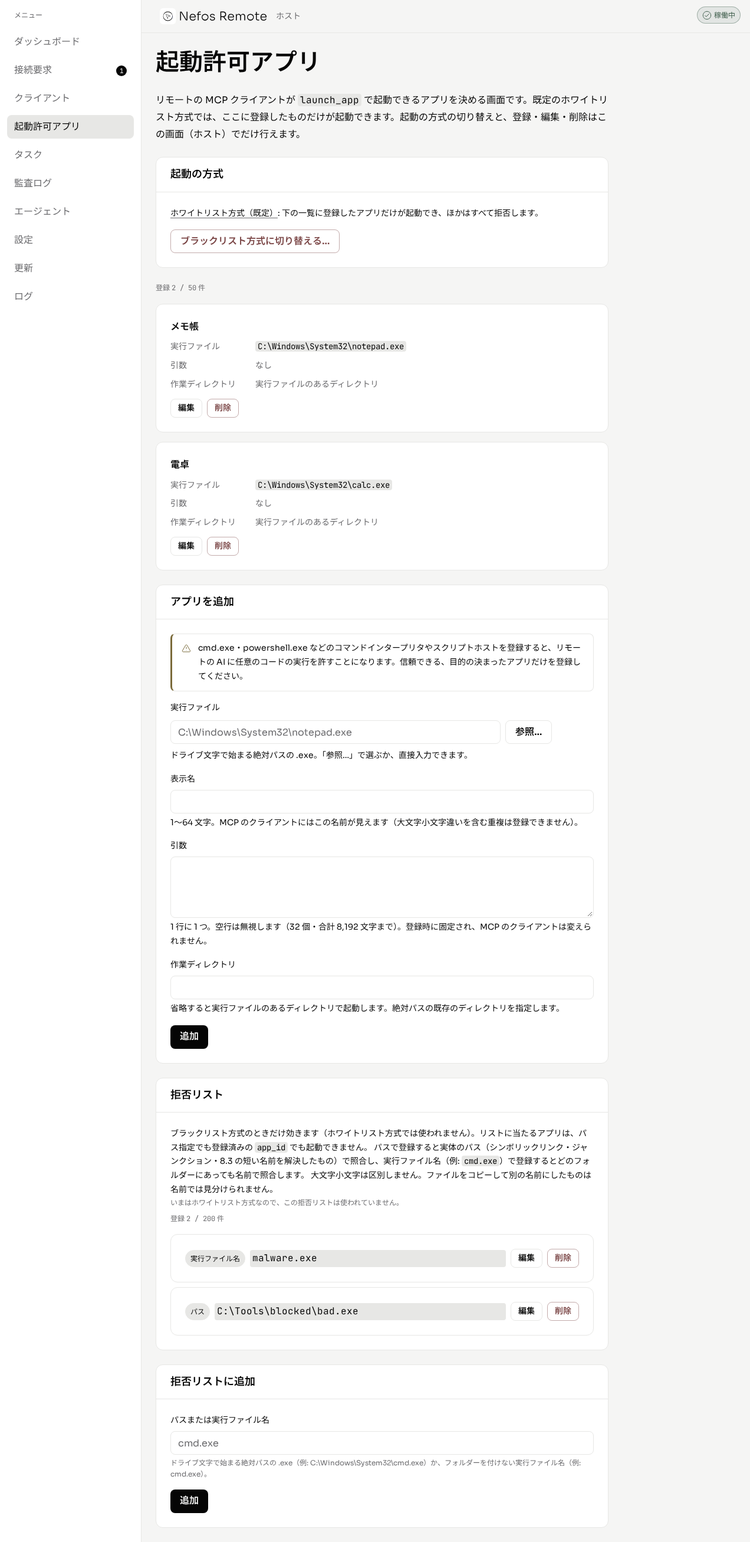
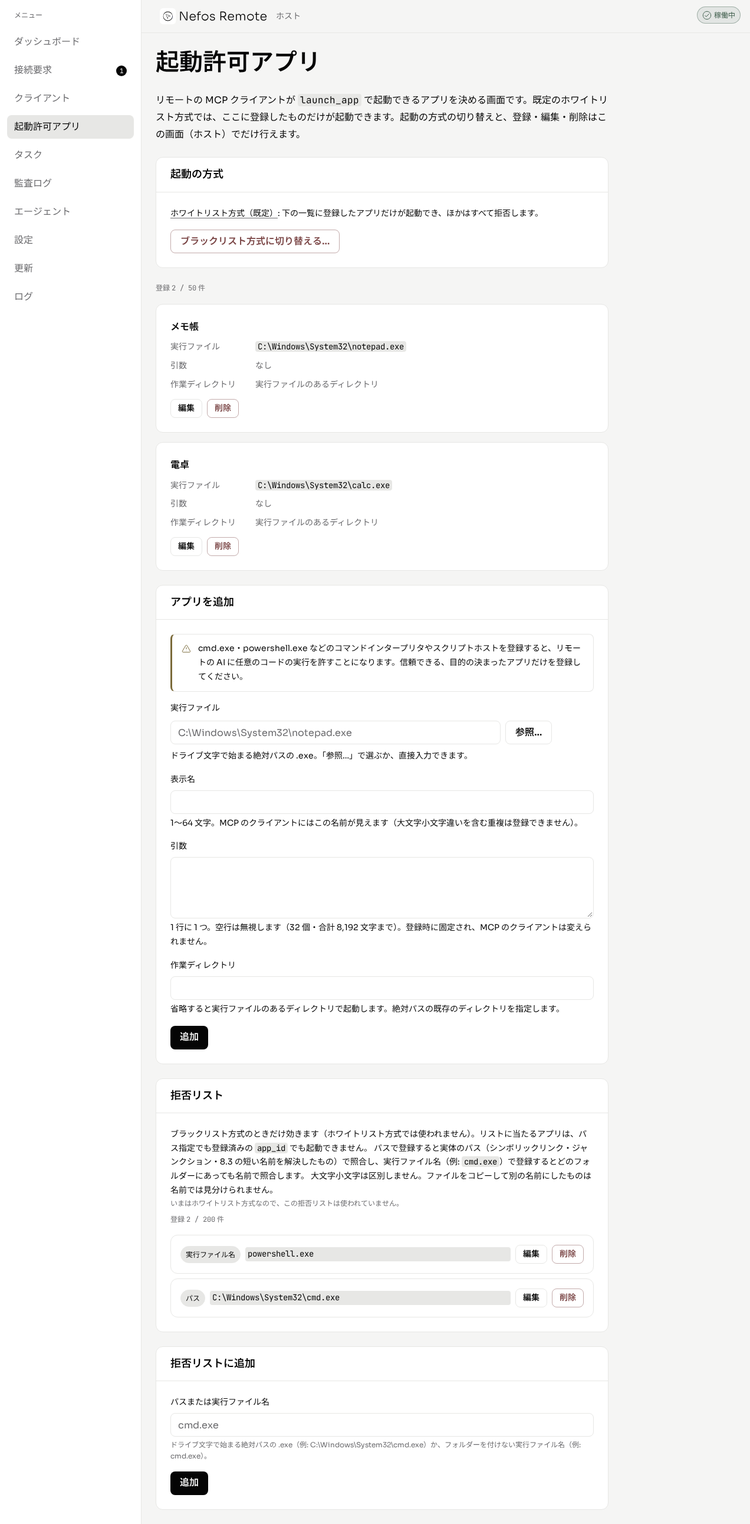
fix: 拒否リストの行を入れ子用の余白にし、Tooltip の左右余白を非対応ブラウザの外へ出さず、スクショ 6 枚を撮り直す (#181 #184 #178)

diff --git a/static/src/css/app.css b/static/src/css/app.css
@@ -711,6 +711,7 @@
       position-area: top;
       justify-self: anchor-center;
       margin-block: var(--s-2);
+      margin-inline: var(--s-4);
       position-try-fallbacks: flip-block;
     }
   }

diff --git a/internal/web/organisms/app_launch_mode_templ.go b/internal/web/organisms/app_launch_mode_templ.go
@@ -333,14 +333,14 @@ func DeniedSection(v view.DeniedSection) templ.Component {
 			}
 			for _, row := range v.Rows {
 				if row.Editing {
-					templ_7745c5c3_Err = templruntime.WriteString(templ_7745c5c3_Buffer, 23, "<li class=\"rounded-lg border border-border bg-surface p-(--pad-card)\" data-denied=\"")
+					templ_7745c5c3_Err = templruntime.WriteString(templ_7745c5c3_Buffer, 23, "<li class=\"rounded-lg border border-border bg-surface p-(--pad-card-sm)\" data-denied=\"")
 					if templ_7745c5c3_Err != nil {
 						return templ_7745c5c3_Err
 					}
 					var templ_7745c5c3_Var12 string
 					templ_7745c5c3_Var12, templ_7745c5c3_Err = templ.JoinStringErrs(row.ID)
 					if templ_7745c5c3_Err != nil {
-						return templ.Error{Err: templ_7745c5c3_Err, FileName: `internal/web/organisms/app_launch_mode.templ`, Line: 105, Col: 97}
+						return templ.Error{Err: templ_7745c5c3_Err, FileName: `internal/web/organisms/app_launch_mode.templ`, Line: 105, Col: 100}
 					}
 					_, templ_7745c5c3_Err = templ_7745c5c3_Buffer.WriteString(templ.EscapeString(templ_7745c5c3_Var12))
 					if templ_7745c5c3_Err != nil {
@@ -359,20 +359,20 @@ func DeniedSection(v view.DeniedSection) templ.Component {
 						return templ_7745c5c3_Err
 					}
 				} else {
-					templ_7745c5c3_Err = templruntime.WriteString(templ_7745c5c3_Buffer, 26, "<li class=\"flex flex-wrap items-center gap-2 rounded-lg border border-border bg-surface p-(--pad-card)\" data-denied=\"")
+					templ_7745c5c3_Err = templruntime.WriteString(templ_7745c5c3_Buffer, 26, "<li class=\"flex flex-col gap-2 rounded-lg border border-border bg-surface p-(--pad-card-sm) sm:flex-row sm:items-center\" data-denied=\"")
 					if templ_7745c5c3_Err != nil {
 						return templ_7745c5c3_Err
 					}
 					var templ_7745c5c3_Var13 string
 					templ_7745c5c3_Var13, templ_7745c5c3_Err = templ.JoinStringErrs(row.ID)
 					if templ_7745c5c3_Err != nil {
-						return templ.Error{Err: templ_7745c5c3_Err, FileName: `internal/web/organisms/app_launch_mode.templ`, Line: 109, Col: 131}
+						return templ.Error{Err: templ_7745c5c3_Err, FileName: `internal/web/organisms/app_launch_mode.templ`, Line: 109, Col: 148}
 					}
 					_, templ_7745c5c3_Err = templ_7745c5c3_Buffer.WriteString(templ.EscapeString(templ_7745c5c3_Var13))
 					if templ_7745c5c3_Err != nil {
 						return templ_7745c5c3_Err
 					}
-					templ_7745c5c3_Err = templruntime.WriteString(templ_7745c5c3_Buffer, 27, "\"><span data-denied-kind>")
+					templ_7745c5c3_Err = templruntime.WriteString(templ_7745c5c3_Buffer, 27, "\"><div class=\"flex min-w-0 flex-1 items-center gap-2 text-sm\"><span class=\"shrink-0\" data-denied-kind>")
 					if templ_7745c5c3_Err != nil {
 						return templ_7745c5c3_Err
 					}
@@ -387,20 +387,20 @@ func DeniedSection(v view.DeniedSection) templ.Component {
 							return templ_7745c5c3_Err
 						}
 					}
-					templ_7745c5c3_Err = templruntime.WriteString(templ_7745c5c3_Buffer, 28, "</span> <code class=\"min-w-0 flex-1 basis-40 break-all\" data-denied-value>")
+					templ_7745c5c3_Err = templruntime.WriteString(templ_7745c5c3_Buffer, 28, "</span> <code class=\"min-w-0 flex-1 break-all\" data-denied-value>")
 					if templ_7745c5c3_Err != nil {
 						return templ_7745c5c3_Err
 					}
 					var templ_7745c5c3_Var14 string
 					templ_7745c5c3_Var14, templ_7745c5c3_Err = templ.JoinStringErrs(row.Value)
 					if templ_7745c5c3_Err != nil {
-						return templ.Error{Err: templ_7745c5c3_Err, FileName: `internal/web/organisms/app_launch_mode.templ`, Line: 117, Col: 85}
+						return templ.Error{Err: templ_7745c5c3_Err, FileName: `internal/web/organisms/app_launch_mode.templ`, Line: 118, Col: 77}
 					}
 					_, templ_7745c5c3_Err = templ_7745c5c3_Buffer.WriteString(templ.EscapeString(templ_7745c5c3_Var14))
 					if templ_7745c5c3_Err != nil {
 						return templ_7745c5c3_Err
 					}
-					templ_7745c5c3_Err = templruntime.WriteString(templ_7745c5c3_Buffer, 29, "</code>")
+					templ_7745c5c3_Err = templruntime.WriteString(templ_7745c5c3_Buffer, 29, "</code></div><div class=\"flex shrink-0 gap-2\" data-denied-actions>")
 					if templ_7745c5c3_Err != nil {
 						return templ_7745c5c3_Err
 					}
@@ -416,7 +416,7 @@ func DeniedSection(v view.DeniedSection) templ.Component {
 					if templ_7745c5c3_Err != nil {
 						return templ_7745c5c3_Err
 					}
-					templ_7745c5c3_Err = templruntime.WriteString(templ_7745c5c3_Buffer, 30, "</li>")
+					templ_7745c5c3_Err = templruntime.WriteString(templ_7745c5c3_Buffer, 30, "</div></li>")
 					if templ_7745c5c3_Err != nil {
 						return templ_7745c5c3_Err
 					}
@@ -518,7 +518,7 @@ func deniedEditForm(row view.DeniedRow, cancelURL string) templ.Component {
 		var templ_7745c5c3_Var17 string
 		templ_7745c5c3_Var17, templ_7745c5c3_Err = templ.JoinStringErrs("denied-form-" + row.ID)
 		if templ_7745c5c3_Err != nil {
-			return templ.Error{Err: templ_7745c5c3_Err, FileName: `internal/web/organisms/app_launch_mode.templ`, Line: 150, Col: 30}
+			return templ.Error{Err: templ_7745c5c3_Err, FileName: `internal/web/organisms/app_launch_mode.templ`, Line: 154, Col: 30}
 		}
 		_, templ_7745c5c3_Err = templ_7745c5c3_Buffer.WriteString(templ.EscapeString(templ_7745c5c3_Var17))
 		if templ_7745c5c3_Err != nil {

diff --git a/internal/web/organisms/organisms_test.go b/internal/web/organisms/organisms_test.go
@@ -799,24 +799,38 @@ func TestPagerButtonsAreSmallSecondary(t *testing.T) {
 	has(t, tasks, "h-8", "data-pager-next")
 }
 
-// #184: 項目カード（クライアント・アプリ・接続要求・拒否リストの行・詳細の枠）の内側の余白は、ガイドの設定画面パーツ 1 の本文と同じ --pad-card（24）。
-// p-4 などの直書きの数値を残さない。
+// #184: 項目カード（クライアント・アプリ・接続要求・詳細の枠）の内側の余白は、ガイドの設定画面パーツ 1 の本文と同じ --pad-card（24）。
+// 拒否リストの行は見出し付きカードの中に入れ子になった行なので、--pad-card-sm（16）。p-4 などの直書きの数値を残さない。
 func TestItemCardsUseThePadCardToken(t *testing.T) {
 	const card = "rounded-lg border border-border bg-surface p-(--pad-card)"
+	const nested = "rounded-lg border border-border bg-surface p-(--pad-card-sm)"
 	clients := webtest.Render(t, organisms.ClientCard(view.Client{ID: "c1"}))
 	has(t, clients, card)
 	apps := webtest.Render(t, organisms.AppCard(view.AppRow{ID: "a1", Label: "x"}))
 	has(t, apps, card)
 	denied := webtest.Render(t, organisms.DeniedSection(view.DeniedSection{Rows: []view.DeniedRow{{ID: "d1"}, {ID: "d2", Editing: true, ActionURL: "/apps/denied/d2"}}}))
-	if n := strings.Count(denied, card); n != 2 {
-		t.Errorf("denied rows (view and edit) must both use the token, got %d:\n%s", n, denied)
+	if n := strings.Count(denied, nested); n != 2 {
+		t.Errorf("denied rows (view and edit) must both use the nested-row token, got %d:\n%s", n, denied)
 	}
-	// 390 幅で値が 1 文字ずつ縦に折れない（flex-1 の最小幅が 0 なので、折り返しの基準 basis-40 を持つ）。
-	has(t, denied, `<code class="min-w-0 flex-1 basis-40 break-all" data-denied-value>`)
+	hasNot(t, denied, card)
+	// 390 幅で値が 1 文字ずつ縦に折れない（flex-1 の最小幅が 0。1 段目の行の中でバッジの残りの幅に収まって折り返す）。値は AppCard と同じ 14px（<code> は親の text-sm に従う）。
+	has(t, denied, `<div class="flex min-w-0 flex-1 items-center gap-2 text-sm">`, `<code class="min-w-0 flex-1 break-all" data-denied-value>`)
 	request := webtest.Render(t, organisms.ConnectionRequestList(view.RequestList{Rows: []view.RequestRow{{ID: "r1", RemoteIP: "100.64.0.9"}}}))
 	has(t, request, card)
 	for _, out := range []string{clients, apps, denied, request} {
 		hasNot(t, out, "bg-surface p-4")
+	}
+}
+
+// #184: 拒否リストの行は sm 未満で「1 段目: バッジ＋値、2 段目: ボタン」の 2 段、sm 以上で 1 行。
+// 「編集」「削除」は 1 つの flex（gap-2 shrink-0）に包み、折り返しで分かれない。
+func TestDeniedRowKeepsActionsTogether(t *testing.T) {
+	denied := webtest.Render(t, organisms.DeniedSection(view.DeniedSection{Rows: []view.DeniedRow{{ID: "d1", Value: "cmd.exe", EditURL: "/apps/denied/d1/edit", DeleteConfirm: "/apps/denied/d1/delete"}}}))
+	has(t, denied, "flex flex-col gap-2", "sm:flex-row", `<div class="flex shrink-0 gap-2" data-denied-actions>`)
+	actions := denied[strings.Index(denied, "data-denied-actions"):]
+	actions = actions[:strings.Index(actions, "</li>")]
+	if n := strings.Count(actions, "<button"); n != 2 {
+		t.Errorf("the edit and delete buttons must share one wrapper, got %d buttons in it:\n%s", n, actions)
 	}
 }
 

diff --git a/internal/web/card_padding_test.go b/internal/web/card_padding_test.go
@@ -10,8 +10,8 @@ import (
 )
 
 // #184: 枠付きのカード（`rounded-lg border border-border bg-surface` の枠）の内側の余白は、直書きの数値（`p-4` など）でなく、ガイドのトークンで書く。
-// 項目カード（クライアント・アプリ・接続要求・拒否リストの行・詳細の枠）は設定画面のパーツ 1 の本文と同じ `p-(--pad-card)`（24）、
-// 絞り込み・ツールバーのような小さい枠は `p-(--pad-card-sm)`（16）。docs/architecture/frontend.md §8.4 の「項目カードの余白」。
+// 項目カード（クライアント・アプリ・接続要求・詳細の枠）は設定画面のパーツ 1 の本文と同じ `p-(--pad-card)`（24）、
+// 絞り込み・ツールバーのような小さい枠と、見出し付きカードの中に入れ子になった拒否リストの行（表示・編集とも）は `p-(--pad-card-sm)`（16）。docs/architecture/frontend.md §8.4 の「項目カードの余白」。
 func TestBorderedSurfaceFramesUsePadCardTokens(t *testing.T) {
 	rawPadding := regexp.MustCompile(`rounded-lg border border-border bg-surface[^"]*\bp-[0-9]`)
 	found := 0
@@ -26,6 +26,9 @@ func TestBorderedSurfaceFramesUsePadCardTokens(t *testing.T) {
 		for i, line := range strings.Split(string(src), "\n") {
 			if strings.Contains(line, "rounded-lg border border-border bg-surface p-(--pad-card") {
 				found++
+			}
+			if strings.Contains(line, "data-denied={ row.ID }") && !strings.Contains(line, "p-(--pad-card-sm)") {
+				t.Errorf("%s:%d: a denied-list row is nested in a Card, so it uses p-(--pad-card-sm): %s", path, i+1, strings.TrimSpace(line))
 			}
 			if rawPadding.MatchString(line) {
 				t.Errorf("%s:%d: use p-(--pad-card) / p-(--pad-card-sm) instead of a literal padding: %s", path, i+1, strings.TrimSpace(line))

diff --git a/internal/web/tokens_css_test.go b/internal/web/tokens_css_test.go
@@ -367,7 +367,7 @@ func TestTooltipShowsOnHoverAndFocusVisible(t *testing.T) {
 }
 
 // #180・#181: ツールチップは WCAG 1.4.13 を満たす。Esc（app.ts が付ける data-tip-dismissed）で隠れ、本文は pointer-events を切らず（hoverable）、
-// 出す側との隙間は ::before / ::after の橋でふさぐ。位置は出す側の真上で、入りきらなければ真下（アンカー位置指定。横にはずらさない）。
+// 出す側との隙間は ::before / ::after の橋でふさぐ。位置は出す側の真上で、入りきらなければ真下（アンカー位置指定。横にはずらさない）。左右には margin-inline で画面の端から余白を空ける。
 func TestTooltipIsDismissableHoverableAndAnchoredAboveOrBelow(t *testing.T) {
 	css := strings.Join(strings.Fields(readAppCSS(t)), " ")
 	if regexp.MustCompile(`\.tip \{[^}]*pointer-events: none;`).MatchString(css) {
@@ -380,6 +380,8 @@ func TestTooltipIsDismissableHoverableAndAnchoredAboveOrBelow(t *testing.T) {
 		"position-area: top;",
 		"position-try-fallbacks: flip-block;",
 		"justify-self: anchor-center;",
+		// #181: 390 幅で画面の左右の端にぴったり付かない余白（最低でも --s-2）。
+		"margin-inline: var(--s-4);",
 		"anchor-scope: --tip;",
 	} {
 		if !strings.Contains(css, want) {

diff --git a/docs/architecture/frontend.md b/docs/architecture/frontend.md
@@ -572,7 +572,7 @@ graph LR
 #### 見出し付きカード・見出しの段・アラート・見出し構造（#148・#150・#154・#155）
 
 - **見出し付きカード（`molecules.Card`。ガイド「設定画面のパーツ」1）**: 地 `--surface`・枠 `--border` 1px・角丸 `--r-lg`・影なし。題は `<h2>` で、見た目はタグの既定サイズに頼らずクラスで決める（`text-lg font-semibold leading-[1.4]` = lg 18・SemiBold・行間 1.4）。題の padding は縦 `--s-4`（`py-4`）・横 `--s-6`（`px-6`）で、題の下に `--border` 1px の線（`border-b`）。本文は padding `--s-6`（`p-6`）。題が空なら題と線は出さない（設定ページ）。ダッシュボード・更新パネル・キルスイッチ・起動許可アプリ（起動の方式・拒否リスト・拒否リストに追加・アプリの追加／編集フォーム）・監査ログとタスクの詳細（引数・サムネイル・指示・最終回答・ステップ）・ビューアの操作権・操作するウィンドウ（`WindowPicker`。更新ボタンは本文の先頭）など、題付きの枠はすべてこの部品で出し、枠の直書きや `text-2xl`・`text-xl` の見出しは置かない（#166。`internal/web/spacing_scale_test.go` の `TestNoHardcodedLargeHeadingsInTemplates` が、見出しに `text-2xl`・`text-xl` が残らないことを、`TestVisibleH2OnlyInMolecules` が、見える h2 は `molecules` だけが出す（organisms・pages に直書きの題を置かない。`sr-only` の h2 は除く）ことを検出する）。htmx が題ごとパネルを差し替える `#update-panel`・`#killswitch-panel`・`#launch-mode`・`#denied-section`・`#lease-panel`・`#window-picker` は、Card を包む `<div id>` に持たせる（差し替えの対象は題を含む）。`AppForm`・拒否リストの追加フォームは、htmx の送信・差し替えの単位が `<form>` なので、`<form>` の中に Card を置く。詳細ページの Card 同士の間隔は `space-y-6`（`--gap-card-section`）。入れ子の本文（指示・最終回答の `<pre>`）は `--bone` 地・`rounded-md`（枠線なし）。
-- **項目カードの余白（#184。ガイド「設定画面のパーツ」1）**: 項目カード（`ClientCard`・`AppCard`・接続要求の項目・拒否リストの行〔表示・編集とも〕）と、同じ作りの詳細の枠（監査ログの詳細の `<dl>`・タスクの詳細の状態の枠）は、枠 `--border` 1px・角丸 `--r-lg`・地 `--surface` に、内側の余白 `p-(--pad-card)`（24。見出し付きカードの本文 `p-6` と同じ値）を使う。`p-4` のような直書きの数値は残さない。絞り込みフォーム（`AuditFilters`）・ビューアのツールバーのような小さい枠は `p-(--pad-card-sm)`（16）。実測（Playwright の computed style。1280 幅）では、変更前は項目カード 16px、見出し付きカードの本文 24px で揃っておらず、変更後は項目カード 24px・本文 24px で一致する。拒否リストの行の `<code>` は 390 幅で 1 文字ずつ縦に折れていた（`flex-1` の最小幅が 0）ので `basis-40`（折り返しの基準）を付け、狭いと値が行を替えて出る。`TestBorderedSurfaceFramesUsePadCardTokens`（`internal/web/card_padding_test.go`）が、枠の余白の直書きを検出する。
+- **項目カードの余白（#184。ガイド「設定画面のパーツ」1）**: 項目カード（`ClientCard`・`AppCard`・接続要求の項目）と、同じ作りの詳細の枠（監査ログの詳細の `<dl>`・タスクの詳細の状態の枠）は、枠 `--border` 1px・角丸 `--r-lg`・地 `--surface` に、内側の余白 `p-(--pad-card)`（24。見出し付きカードの本文 `p-6` と同じ値）を使う。`p-4` のような直書きの数値は残さない。絞り込みフォーム（`AuditFilters`）・ビューアのツールバーのような小さい枠と、見出し付きカードの中に入れ子になった拒否リストの行（表示・編集とも。入れ子の中の枠は外のカードの本文より内側に寄せる）は `p-(--pad-card-sm)`（16）。拒否リストの行は sm 未満で「1 段目: 種別のバッジ＋値、2 段目: 編集・削除」の 2 段（`flex-col`）、sm 以上で 1 行（`sm:flex-row`）にし、「編集」「削除」は 1 つの `flex gap-2 shrink-0` に包んで折り返しで分かれないようにする（値は `text-sm`＝AppCard の値と同じ 14px。`<code>` には付けず、包む `<div>` に付ける）。実測（Playwright の computed style。1280 幅）では、変更前は項目カード 16px、見出し付きカードの本文 24px で揃っておらず、変更後は項目カード 24px・本文 24px で一致する。拒否リストの行の `<code>` は 390 幅で 1 文字ずつ縦に折れていた（`flex-1` の最小幅が 0）ので、1 段目の行（バッジ＋値）を別の `flex` にして値を `min-w-0 flex-1 break-all` にし、バッジの残りの幅の中で折り返す。`TestBorderedSurfaceFramesUsePadCardTokens`（`internal/web/card_padding_test.go`）が、枠の余白の直書きを検出する。
 - **タスク一覧の狭い幅（#178）**: `organisms.TaskList` は、sm（640px）以上では従来の表、sm 未満では表を隠して 1 件 1 枚のカード（`taskCard`。`<ul data-task-cards>` の `<li data-task-card>`。カード同士の間 8＝`space-y-2`）の縦積みにする（同じ行を 2 通りに描き、どちらかは `display: none`。表が指示の列を 1 文字ずつ縦に折るのを避けるため）。カードは 3 段（段の間 8）: 1 段目＝開始日時（Mono）と状態のピル（`atoms.Badge`）、2 段目＝指示（`line-clamp-2`。最大 2 行で「…」）、3 段目＝ミュートの `text-xs` の 1 行（タスク ID のリンク・依頼元・ステップ・所要時間。日時・ID・ステップ・所要時間は Mono のまま。折り返さず、依頼元だけが `truncate` で縮む）。内側の余白は `p-(--pad-card-sm)`（16）。**カード全体が押せる**: タスク ID のリンクに `after:absolute after:inset-0` を付け、`relative` のカード全体を覆う（`hx-boost`・`hx-target="#main"` は表のリンクと同じ）。キーボードで止まるのは ID のリンクだけで、フォーカスリングはカードの外周に出す（`app.css` の `.task-card:has(.task-card-link:focus-visible)`。2px `--focus`・offset 2px。リンク自身の outline は消す）。ホバーは `--accent-soft` 地なので、ミュートの文字は `group-hover:text-mute-on-soft`（C6）。`TestTaskListRendersCardsBelowSmAndTableFromSm`（`organisms_test.go`）で固定する。
 - **見出しの段（ガイド「アプリ内の見出しの段」）**: モーダルの題 lg 18・カードの題 lg 18・h3 base 16・h4 sm 14、いずれも SemiBold。見出しタグと表示サイズは独立で、見た目はクラスで決める。`internal/web/molecules/typography_test.go` が、題ごとにサイズ・太さの段を検査する（タグの種類では判定しない）。
 - **インラインアラートの題**: sm 14・SemiBold（`atoms.Alert` の題は `<strong class="block text-sm font-semibold no-underline">`。`app.css` の base が本文中の `<strong>` に引く強調の下線は、題には付けない。リンクと同じ `--mute` の下線が付くとリンクに見えるため。`typography_test.go` の `TestAlertTitleHasNoUnderline`）。`#alert-root` はどの見出しの下にも出るので、`Alert` の題は見出し要素にしない（h1 → h3 の飛びを作らない。読み上げは `role="alert"`）。`molecules.TokenReveal`・`organisms.ViewerLeasePanel`（タスク実行中の注意書き）の題は、親の見出し（Card の h2・「操作権」の h2）の直下なので h3 のまま、見た目は同じ sm 14・SemiBold。
@@ -582,7 +582,7 @@ graph LR
 - **文中の `<code>`（#209。ガイド T1・T3）**: 文中・詳細表示・表の値のインライン `<code>` は、すべて `app.css` の `@layer base` の `code` ルール 1 か所で決める（Mono・`--accent-soft` 地・`--r-sm`・左右 4px（`--s-1`）・文字色 `--ink`）。**大きさは親に従う**（`font-size: inherit`）: 本文 `text-base` の説明文の中なら 16px、詳細表示（`dl`・`text-sm`）なら 14px、住所・注記（`text-xs`）の中ならその 12px で、本文の中で 12px に縮まない。テンプレートの `<code>` にチップの見た目のクラス（`text-xs`・`px-*`・`py-*`・`bg-*`・`rounded-*`・`text-*`・`font-*`）は付けない（画面ごとに大きさ・余白が分かれ、チップの有無もばらつくため）。付けてよいのは折り返し・レイアウトのクラス（`break-all`・`min-w-0`・`max-w-full`・`flex-1`）と `data-*` だけ。折り返しても両端に余白が付くよう `box-decoration-break: clone`。`TestInlineCodeHasOneStyleFromAppCSS`（`internal/web/tokens_css_test.go`）が `code` ルールの値と、`.templ` の全 `<code>` にチップのクラスが無いことを検査する。
 - **題なしのインラインアラート（`atoms.Notice` / `NoticeAnimated`。ガイド「設定画面のパーツ」3）**: `Alert` と同じ形（角丸 `--r-md`・padding 12 × 16・アイコン 16 + 本文 sm 14・gap 12）で、題と閉じるボタンは持たない。地は `--surface`、枠は `--border` 1px で、状態色は**左の線（3px）だけ**に使う（`-line`・`-wash` の枠・地は使わない）。アイコンは状態色・本文は `--ink`。色の使い分け: `AlertWarning` = 常設の注意書き（データの扱い・取り消せないこと・起動の方式・更新を適用できない理由・監査の入力の記録の警告など）、`AlertInfo` = 同意のチェックを入れる枠（エージェント・高速パス）・ただの補足（タスクの最終回答の注記・開発用ビルドの更新案内・ウィンドウ一覧の案内）。`AlertDanger` は、エラー・読めない設定・キルスイッチの発動中の表示に限る。`AlertSuccess` は使っていない。
 - **見出し構造（#155）**: どのページ（ホスト GUI・リモート UI）も h1 が 1 つで、h1 → h3 のような飛びが無い。項目が並ぶ場所は、見せない h2（`sr-only`）を挟む（「アプリ一覧」「クライアント一覧」「接続要求の一覧」。「アプリの登録」は、見える題を持つ Card の h2「アプリを追加」になった。#166）。クライアント詳細の h1 はそのページの題（`pages.ClientDetail` の `text-3xl`。名前。`ClientCard` は詳細ページでは名前を出さない）。**項目名の見出し（#166。クライアント名・アプリ名・接続要求のデバイス名）は h3 の base 16 SemiBold（`text-base font-semibold`）**: ガイドの見出しの段で h3〜h4 の項目の見出しは本文と同じ 16 の SemiBold で、カードの題（lg 18・下罫線）は「見出し付きカード」の題に限る。項目名のカードは題と本文を罫線で分けるカードではなく、1 件の項目（名前・状態・操作の行）なので Card にせず、項目名だけ h3 base 16 にそろえた（`#155` で `text-xl` 24 を残していた分）。ビューアの h1 は `ViewerRoot` の `sr-only` の「ビューア」。設定の `<legend>` は見出しではなくフォームのグループ見出し（ガイドの h4 の段）で、このアウトラインに数えない。`internal/web/pages/headings_test.go` が全ページを描画して見出しのレベル列を検査する（`webtest.AssertHeadingOutline`。h1 が 1 つ・飛びなし）。
-- **ツールチップ（`atoms.Tooltip`。#169。ガイド「ツールチップ」「フィードバック」）**: 標準の `title` 属性は使わず、この部品に統一する（アプリで使っていたのはタスク詳細の、アクション以外の行のステップ番号「-」の「ステップ N に付く行」と、ビューアのショートカット送信メニューの無効なキーの「ウィンドウを選んだ操作中は使えません」の 2 か所。後者は #214 で置き換えた。無効のボタンはホバー・フォーカスを受けないので、`tabindex="0"` の出す側がボタンを包む）。出す側は `tabindex="0"` の `<span class="tip-host">` で、`aria-describedby` が `role="tooltip"` の本文（`<span class="tip">`。id は呼び出し側が行ごとに一意に決める）を指す。本文は隠れている間も DOM に残り（`visibility: hidden`。読み上げの参照先として読まれる）、ホバー（`.tip-host:hover`）とキーボードフォーカス（`.tip-host:focus-visible`）で `--motion-fade-in`（320ms）のフェードインで出る。表示の遅延はホバーだけ 400ms で、フォーカスは即時（ガイド）。見た目は 12px（`--text-xs`）・padding `--tip-pad-y` 6 × `--tip-pad-x` 10（`app.css` の `:root`。スケール外の値なのでトークンで持つ）・角丸 `--r-sm`・地 `--ink`・字 `--bone`（テーマで反転）・`--z-dropdown`・本文にボタン・リンクを入れない（ホバーで出る文は触れない）。位置は出す側の真上で、横にはずらさず出す側の中央にそろえる（隣の列の表示を覆わない。#181）。上端で入りきらないときは真下へ入れ替え、画面の左右の端では本文が画面内に収まるよう寄る。`app.css` の `@supports (position-area: top)` の中で、本文を `position: fixed` にして出す側（`anchor-name: --tip` ＋ `anchor-scope: --tip` で 1 つずつ別のアンカー）へつなぎ（`position-area: top`・`justify-self: anchor-center`・`position-try-fallbacks: flip-block`）、`fixed` なので表の `overflow-x` の枠で切れない（JavaScript による位置の計算は無い）。非対応のブラウザは、出す側の中央の真上（`absolute`）に出る。本文の最大幅は `min(20rem, 100vw - 2 * --s-4)` で、390 幅でも画面に収まる。forced-colors（ハイコントラスト）では背景が OS の色に置き換わるので、`1px solid CanvasText` の枠を足して表の文字と区切る。**WCAG 1.4.13（content on hover or focus。#180）**: ① 閉じられる: 出ている間（`.tip-host:is(:hover, :focus-visible)`）に Esc を押すと、`app.ts` がキャプチャ段階の `keydown` で出す側に `data-tip-dismissed` を付け、`app.css` が本文を隠す（ポインターもフォーカスも動かさない。フォーカスは出す側に残る）。そのイベントは `stopPropagation` で止めるので、ドロワー（上の Esc の閉じ方）・確認モーダル（Esc でも閉じる。キャンセルと同じ）の Esc には届かず、1 回目の Esc はツールチップだけ、2 回目でドロワー・モーダルが閉じる。隠したあとは、ホバーとフォーカスの両方が外れる（`mouseleave`・`focusout`）まで出さない。② hoverable: 本文は `pointer-events` を受け、出す側との間の隙間は `.tip::before` / `.tip::after` の透明な橋でふさぐ（本文は出す側の子孫なので、本文の上でも出す側の `:hover` が続く）。③ persistent: ホバー・フォーカスが外れるか Esc まで出たまま。`internal/web/atoms/atoms_test.go`・`organisms_test.go`・`viewer_test.go`・`tokens_css_test.go` が、`aria-describedby` の配線・`title` を使わないこと・ホバー／フォーカス・遅延・位置の CSS を検査し、`static/src/app/app.test.ts`（Esc・ドロワー／モーダルとの優先）と `static/e2e/viewer.spec.ts`（実描画の位置・Esc・hoverable）が動きを検査する。
+- **ツールチップ（`atoms.Tooltip`。#169。ガイド「ツールチップ」「フィードバック」）**: 標準の `title` 属性は使わず、この部品に統一する（アプリで使っていたのはタスク詳細の、アクション以外の行のステップ番号「-」の「ステップ N に付く行」と、ビューアのショートカット送信メニューの無効なキーの「ウィンドウを選んだ操作中は使えません」の 2 か所。後者は #214 で置き換えた。無効のボタンはホバー・フォーカスを受けないので、`tabindex="0"` の出す側がボタンを包む）。出す側は `tabindex="0"` の `<span class="tip-host">` で、`aria-describedby` が `role="tooltip"` の本文（`<span class="tip">`。id は呼び出し側が行ごとに一意に決める）を指す。本文は隠れている間も DOM に残り（`visibility: hidden`。読み上げの参照先として読まれる）、ホバー（`.tip-host:hover`）とキーボードフォーカス（`.tip-host:focus-visible`）で `--motion-fade-in`（320ms）のフェードインで出る。表示の遅延はホバーだけ 400ms で、フォーカスは即時（ガイド）。見た目は 12px（`--text-xs`）・padding `--tip-pad-y` 6 × `--tip-pad-x` 10（`app.css` の `:root`。スケール外の値なのでトークンで持つ）・角丸 `--r-sm`・地 `--ink`・字 `--bone`（テーマで反転）・`--z-dropdown`・本文にボタン・リンクを入れない（ホバーで出る文は触れない）。位置は出す側の真上で、横にはずらさず出す側の中央にそろえる（隣の列の表示を覆わない。#181）。上端で入りきらないときは真下へ入れ替え、画面の左右の端では本文が画面内に収まるよう寄る。`app.css` の `@supports (position-area: top)` の中で、本文を `position: fixed` にして出す側（`anchor-name: --tip` ＋ `anchor-scope: --tip` で 1 つずつ別のアンカー）へつなぎ（`position-area: top`・`justify-self: anchor-center`・`position-try-fallbacks: flip-block`。左右は `margin-inline: var(--s-4)` で画面の端から 16px 空け、390 幅の左端の出す側でも本文が端に付かない）、`fixed` なので表の `overflow-x` の枠で切れない（JavaScript による位置の計算は無い）。非対応のブラウザは、出す側の中央の真上（`absolute`）に出る。本文の最大幅は `min(20rem, 100vw - 2 * --s-4)` で、390 幅でも画面に収まる。forced-colors（ハイコントラスト）では背景が OS の色に置き換わるので、`1px solid CanvasText` の枠を足して表の文字と区切る。**WCAG 1.4.13（content on hover or focus。#180）**: ① 閉じられる: 出ている間（`.tip-host:is(:hover, :focus-visible)`）に Esc を押すと、`app.ts` がキャプチャ段階の `keydown` で出す側に `data-tip-dismissed` を付け、`app.css` が本文を隠す（ポインターもフォーカスも動かさない。フォーカスは出す側に残る）。そのイベントは `stopPropagation` で止めるので、ドロワー（上の Esc の閉じ方）・確認モーダル（Esc でも閉じる。キャンセルと同じ）の Esc には届かず、1 回目の Esc はツールチップだけ、2 回目でドロワー・モーダルが閉じる。隠したあとは、ホバーとフォーカスの両方が外れる（`mouseleave`・`focusout`）まで出さない。② hoverable: 本文は `pointer-events` を受け、出す側との間の隙間は `.tip::before` / `.tip::after` の透明な橋でふさぐ（本文は出す側の子孫なので、本文の上でも出す側の `:hover` が続く）。③ persistent: ホバー・フォーカスが外れるか Esc まで出たまま。`internal/web/atoms/atoms_test.go`・`organisms_test.go`・`viewer_test.go`・`tokens_css_test.go` が、`aria-describedby` の配線・`title` を使わないこと・ホバー／フォーカス・遅延・位置の CSS を検査し、`static/src/app/app.test.ts`（Esc・ドロワー／モーダルとの優先）と `static/e2e/viewer.spec.ts`（実描画の位置・Esc・hoverable）が動きを検査する。
 - **中立のバッジ（#212。ガイド C4）**: ガイドの中立は `--mute`（「下書き」だけが `--mute`）。`atoms.Badge` の中立は用途で 2 つに分ける。状態の中立（空き・無効・最小化・失効・中断・確認中・ログの DEBUG）は `atoms.BadgeNeutral`（`border-border bg-accent-soft text-mute-on-soft`。ガイドの状態色の式の `--mute` 版〔文字 `--mute`・枠 40%・地 10%〕は、`--mute` 文字の 10% 地の上でのコントラスト比が `--surface` 上ではライト 4.67・ダーク 4.80 で通るが、`--bone` 上ではライト 4.30、行ホバーの `--accent-soft` 上ではライト 3.82・ダーク 3.68 で AA 4.5:1 に届かないので使わず、公開ページの `.pill.neu` と同じ `--mute-on-soft` 文字 + `--accent-soft` 地にした。`--accent-soft` 上でライト 5.39・ダーク 5.24）。状態でない表示（種別・経路・「あり」。ガイドに規定が無い）は `atoms.BadgeLabel`（`text-ink`。`LeaseBadge` の種別・承認ダイアログの種別・ダッシュボードのセッションの種別・タスクのステップの経路・監査のサムネの「あり」）。どちらもアイコンは付けない。`BadgeSoft`（秘密の入力欄の「登録済み」。枠なし・高さ 22px）は同じ配色で、ガイドの寸法に合わせた別形。`view.ToneNeutral` は状態の中立（`BadgeNeutral`）に対応する。`TestNeutralBadgeSeparatesStateFromLabel` が検出する。
 - **手書きのチップ・ピルを作らない（#216。ガイド O8・§4 ステータスピル・§7 タグ chips）**: 種別・経路・状態・件数の小さなラベルは `atoms.Badge`（`rounded-full`・細枠・`--accent-soft` 等の地）だけで描き、templ に `rounded-sm` / `rounded-full` の `<span>` を手書きしない（拒否リストの行の「パス」「実行ファイル名」は `BadgeLabel`。`data-denied-kind` は Badge を包む `<span>` に付ける）。`internal/web/handwritten_chip_test.go`（`TestChipsAndPillsAreDrawnByBadge`）が、`atoms/badge.templ` 以外で `rounded-sm` / `rounded-full` を持つ templ を、理由つきの許可リストの 4 部品に限って検出する。許可: トースト（`atoms/toast.templ`。ink 地の通知で状態のラベルではない）、ログの絞り込みチップ（`organisms/app_log.templ`。押せるリンクの操作部品）、サイドバーの承認待ちの件数（`organisms/chrome.templ`。accent 地の数字だけの丸でナビ項目の添え物）、タスクのサムネイル画像の角（`organisms/tasks.templ`）。足すときは Badge の tone で足りないかを先に見る。
 - **表の行ホバーと補助文字（#198。ガイド C6）**: 表の行は `hover:bg-accent-soft`（`--table-row-hover`）で `--accent-soft` 地になる。`--mute` はその上でライト 4.29・ダーク 4.22 と AA 未満なので、行の中の `text-mute` の文字（ログの属性のキー・サムネなしの「-」・タスクのステップの番号の「-」・event・引数のキー）は、行に `group` を付けて `text-mute group-hover:text-mute-on-soft`（`--mute-on-soft` はライト 5.39・ダーク 5.24）にする。行の中の部品（`auditThumbCell`・`taskStepArgs`）も同じ。`internal/web/hover_row_contrast_test.go` が検出する。
@@ -833,3 +833,4 @@ M1 はホスト GUI（GUI ルーター）だけを作る。本書にあって M1
 | 1.77 | 2026-11-27 | ツールチップ（#180・#181。§8.4 のツールチップの行）: Esc で閉じる（`app.ts` が `data-tip-dismissed` を付け、ホバー・フォーカスが外れるまで隠す。ドロワー・確認モーダルの Esc より先に受けて止めるので、1 回目はツールチップだけ。確認モーダルは Esc でも閉じるようにした）。hoverable（本文は `pointer-events` を受け、隙間は透明な橋でふさぐ）・persistent を確かめ、WCAG 1.4.13 からの逸脱の注記を外した。位置は出す側の真上（上端で入りきらなければ真下）にし、アンカー位置指定（`position-area`・`flip-block`）で横にずらさない（`position: fixed` なので表の枠で切れない）。`app.test.ts`・`viewer.spec.ts`（1280・390 幅）・`tokens_css_test.go` で検査 | #180・#181 |
 | 1.78 | 2026-11-27 | 390 幅の一覧・ページ送り・項目カード（#178・#179・#184。§5.4 のページ送りの段落と §8.4 の見出し付きカードの節）: タスク一覧を sm 未満で 1 件 1 枚のカードの縦積みにした（3 段・line-clamp 2 行・カード全体が押せる・フォーカスリングはカードの外周。表は sm 以上のまま）。ページ送りは sm 未満で「‹ 前へ」「N ページ目」「次へ ›」を 1 行（3 列のグリッド）にし、ボタンの名前は `aria-label` に長い表示を残した。項目カード（クライアント・アプリ・接続要求・拒否リストの行・監査とタスクの詳細の枠）の余白を、直書きの `p-4` から見出し付きカードの本文と同じ `p-(--pad-card)`（24）に揃え、小さい枠（絞り込み・ツールバー）は `p-(--pad-card-sm)` にした。拒否リストの行の値が 390 幅で 1 文字ずつ縦に折れていたのを直した。デモサーバー（`remotedemo`）に `-task-history N`・`-pending-request`（確認用の種）を足した。スクリーンショットは `docs/screenshots/issue-178`・`issue-179`・`issue-184` | #178・#179・#184 |
 | 1.79 | 2026-11-27 | 設定変更の `audit_unavailable`（503）のアラートを対象別の文言に一般化（`auditChangeFailure`。#182） | #182 |
+| 1.80 | 2026-11-27 | 390 幅の見た目の修正（#181・#184。§8.4 のツールチップの行と項目カードの余白）: ツールチップ（`.tip` の `@supports (position-area: top)` 内）に `margin-inline: var(--s-4)` を足し、390 幅の左端の出す側でも本文が画面の端から 16px 空くようにした（実測で左端 16px）。拒否リストの行は見出し付きカードの中の入れ子なので、内側の余白を `p-(--pad-card-sm)`（16）にし（表示・編集とも）、sm 未満で「1 段目: バッジ＋値、2 段目: 編集・削除」の 2 段にして、2 つのボタンを 1 つの `flex gap-2 shrink-0` に包んで分かれないようにした（値は `text-sm`＝AppCard の値と同じ 14px）。`TestItemCardsUseThePadCardToken`・`TestBorderedSurfaceFramesUsePadCardTokens`・`TestDeniedRowKeepsActionsTogether`・`TestTooltipIsDismissableHoverableAndAnchoredAboveOrBelow` を更新・追加 | #181, #184 |

diff --git a/docs/screenshots/issue-184/README.md b/docs/screenshots/issue-184/README.md
@@ -23,6 +23,8 @@ PUPPET_REMO_STATIC_DIR=<その版の static/dist> /tmp/remotedemo -task-history 
 | ClientCard（`[data-client]`） | 16px | 24px | 24px |
 | AppCard（`[data-app]`） | 16px | 24px | 24px |
 | 接続要求（`[data-request]`） | 16px | 24px | 24px |
-| 拒否リストの行（`[data-denied]`） | 16px | 24px | 24px |
+| 拒否リストの行（`[data-denied]`） | 16px | 16px（見出し付きカードの中の入れ子の行なので `--pad-card-sm`） | 24px |
 
-枠は変更前後とも 1px `--border`・角丸 12px（`--r-lg`）。390 幅は 4 画面とも横スクロールなし。変更前の拒否リストの行は、390 幅で値の `<code>` が 1 文字ずつ縦に折れていた（`after` では `basis-40` で値が行を替えて出る）。
+枠は変更前後とも 1px `--border`・角丸 12px（`--r-lg`）。390 幅は 4 画面とも横スクロールなし。変更前の拒否リストの行は、390 幅で値の `<code>` が 1 文字ずつ縦に折れていた（`after` では値が 1 段目の行の中で折り返して出る）。
+
+拒否リストの行は、見出し付きカードの中に入れ子になった行なので内側の余白を `--pad-card-sm`（16px）にし、390 幅（sm 未満）では「1 段目: 種別のバッジ＋値（14px）、2 段目: 「編集」「削除」（1 つの `flex gap-2 shrink-0` に包んで分かれない）」の 2 段にした（撮り直し後の実測: 行の padding 16px・値の文字 14px・2 つのボタンの上端が同じ・画面の横スクロールなし）。`apps-after-390-*.png` と `apps-after-1280-*.png` の 4 枚は、この変更のあとの版で撮り直した（アプリは `C:\Windows\System32\notepad.exe`・`calc.exe`、拒否リストは `C:\Windows\System32\cmd.exe`・`powershell.exe`）。

diff --git a/docs/screenshots/issue-178/README.md b/docs/screenshots/issue-178/README.md
@@ -15,8 +15,7 @@ PUPPET_REMO_STATIC_DIR=$PWD/static/dist /tmp/remotedemo -task-history 110 -gui-a
 
 | ファイル | 内容 |
 |---|---|
-| `tasks-390-light.png` / `tasks-390-dark.png` | 390 幅。1 件 1 枚のカード（3 段）の縦積み |
+| `tasks-390-light.png` / `tasks-390-dark.png` | 390 幅。1 件 1 枚のカード（3 段）の縦積み。1 件目がすでに長い指示で、2 行で「…」になる例を兼ねる（長い指示だけの撮影は重複なので置かない） |
 | `tasks-1280-light.png` / `tasks-1280-dark.png` | 1280 幅。表のまま（変えていない） |
-| `tasks-long-prompt-390-light.png` / `tasks-long-prompt-390-dark.png` | 390 幅で指示が長い例（2 行で「…」） |
 
 実測（390 幅）: 画面全体・`#task-list` とも横スクロールなし（`scrollWidth` = `clientWidth`）。カードの内側の余白は 16px。キーボードの Tab は ID のリンクに止まり、フォーカスリングはカードの外周（2px・`--focus`）に出る。カードの空いた所を押すと詳細（`/tasks/{id}`）へ移る。

diff --git a/docs/screenshots/issue-181/README.md b/docs/screenshots/issue-181/README.md
@@ -20,7 +20,7 @@ PUPPET_REMO_STATIC_DIR=<static/dist> /tmp/tip-demo -agent-demo -agent-safety-che
 `task-tooltip-<幅>-<before|after>-<light|dark>.png`。
 
 - 変更前: Tooltip は出す側の左端にそろい、横に長く広がって、同じ行のアクション欄（「安全チェック … codes: …」）の文字にかぶる。
-- 変更後: 出す側の真上に中央でそろい（横へずらさない）、アクション欄の文字にかぶらない。390 幅では左端で画面内に収まるよう寄る。上端で入りきらないときは真下に出る。
+- 変更後: 出す側の真上に中央でそろい（横へずらさない）、アクション欄の文字にかぶらない。390 幅では左端で画面内に収まるよう寄り、画面の端から 16px（`margin-inline: var(--s-4)`）の余白が空く（撮り直し後の実測: 左端 16px）。上端で入りきらないときは真下に出る。
 
 ## 確認できなかった点
 
